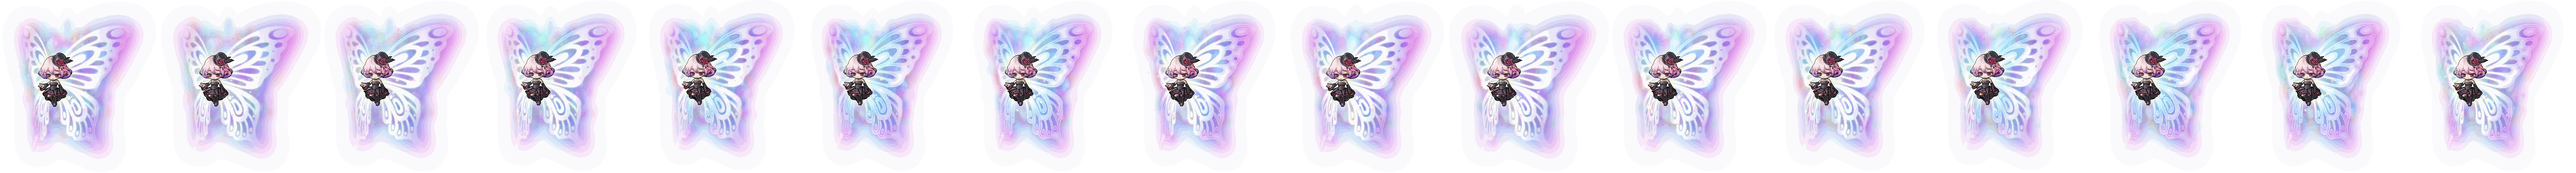
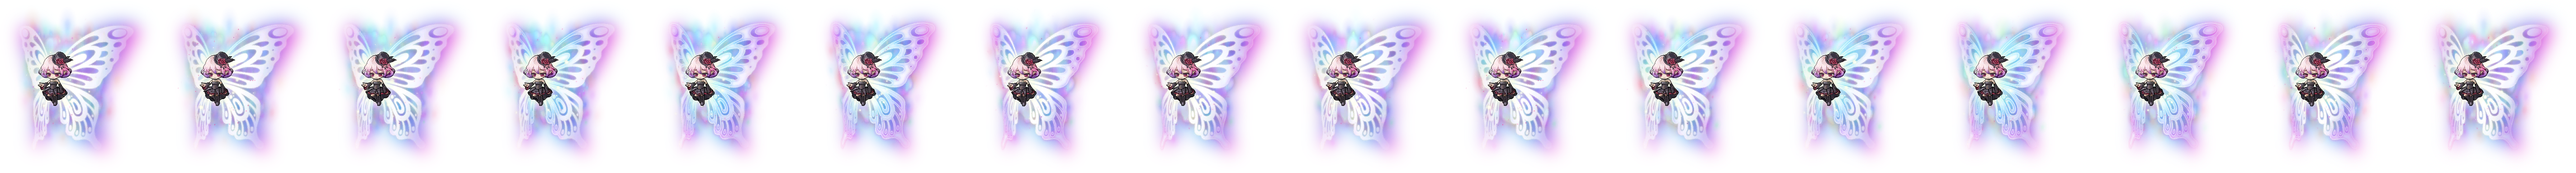
chage boss image

diff --git a/resource/map3.py b/resource/map3.py
@@ -1,15 +1,23 @@
 from pico2d import *
-MAP_WIDTH, MAP_HEIGHT = 800, 600
+import random
+MAP_WIDTH, MAP_HEIGHT = 2050, 1550
 class Boss:
     def __init__(self):
         self.x, self.y = 1070, 470
         self.frame = 0
-        self.image = load_image('boss_phase1(248x245).png')
+        self.image = load_image('boss_phase2(356x384).png')
     def update(self):
         self.frame = (self.frame + 1) % 8
+    def move(self, p1, p2, p3, p4):
+        for i in range(0, 100, 2):
+            t = i / 100
+            self.x = ((-t ** 3 + 2 * t ** 2 - t) * p4[0] + (3 * t ** 3 - 5 * t ** 2 + 2) * p1[0] + (
+                        -3 * t ** 3 + 4 * t ** 2 + t) * p2[0] + (t ** 3 - t ** 2) * p3[0]) / 2
+            self.y = ((-t ** 3 + 2 * t ** 2 - t) * p4[1] + (3 * t ** 3 - 5 * t ** 2 + 2) * p1[1] + (
+                        -3 * t ** 3 + 4 * t ** 2 + t) * p2[1] + (t ** 3 - t ** 2) * p3[1]) / 2
 
     def draw(self):
-        self.image.clip_draw(self.frame * 248, 0, 248, 245, self.x, self.y)
+        self.image.clip_draw(self.frame * 356, 0, 356, 384, self.x, self.y)
 
 def character_handle_events():
     global running
@@ -100,13 +108,17 @@ dir_y = 0
 side_character_idle = 0
 side_character_attack = 0
 side_character_prone = 0
-
+size = 10
+points = [(random.randint(0 + 100, MAP_WIDTH-100), random.randint(0+100, MAP_HEIGHT-100)) for i in range(size)]
+n = 1
 
 while running:
     boss.update()
     clear_canvas()
-    map1.draw(874, 489.5)
-
+    map1.draw(MAP_WIDTH // 2, MAP_HEIGHT // 2)
+    p1, p2, p3, p4 = points[n - 3], points[n - 2], points[n - 1], points[n]
+    n = (n + 1) % size
+    boss.move(p1, p2, p3, p4)
     boss.draw()
     if attack == False:
         character.clip_draw(frame * 92, side_character_idle * 96, 92, 96, x, y)
